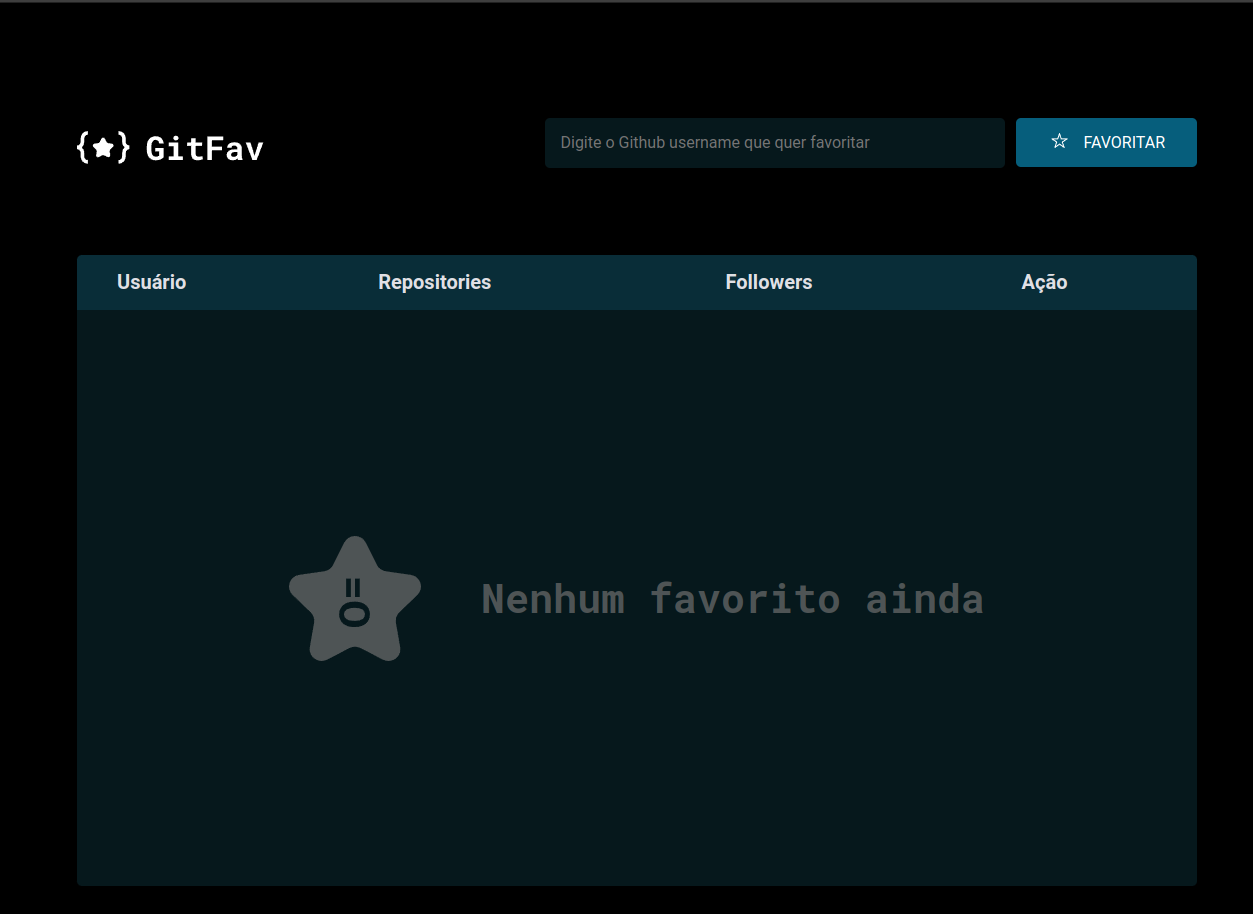
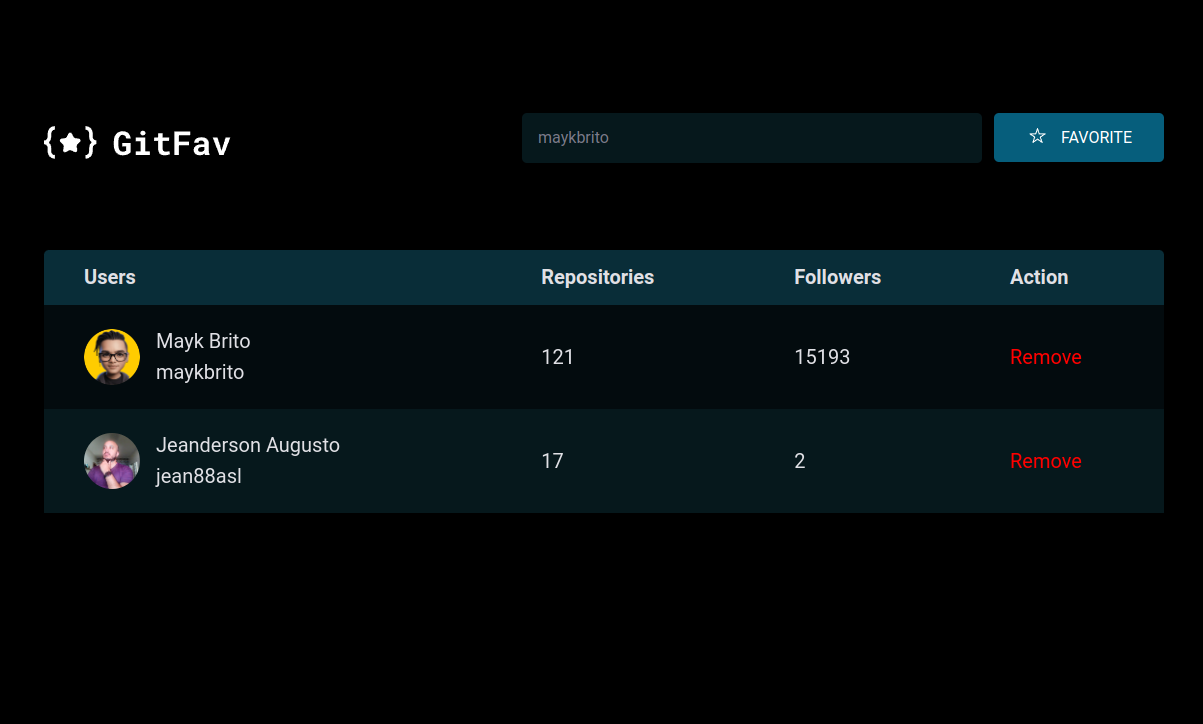
add new images

diff --git a/js/favorities.js b/js/favorities.js
@@ -104,7 +104,7 @@ export class FavoritesView extends Favorites {
             <img src="https://github.com/jean88asl.png" alt="image of jean88asl">
             <a href="http://" target="_blank" rel="noopener noreferrer">
                 <p>
-                    Jeander Augusto 
+                    Jean Augusto 
                 </p>
                 <span>/jean88asl</span>
             </a>
@@ -116,7 +116,7 @@ export class FavoritesView extends Favorites {
             1564
         </td>
         <td>
-            <button class="remove">remover</button>
+            <button class="remove">remove</button>
         </td>
         `
 
